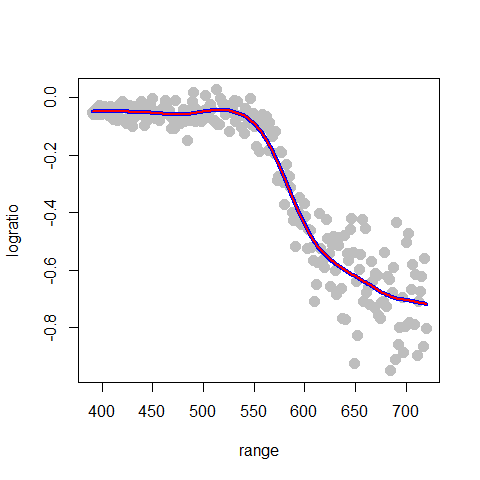
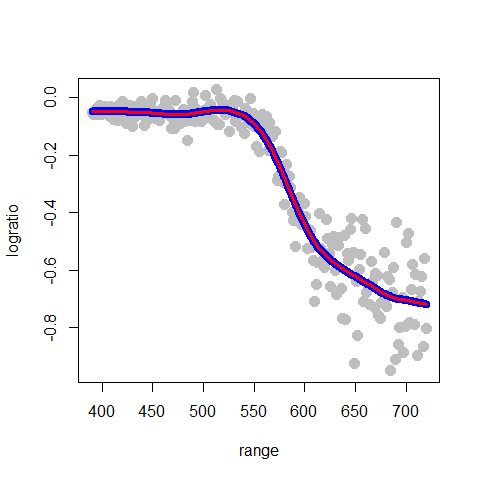
Lec 8

Changed region(s): [[0.1875, 0.2188, 0.5938, 0.375], [0.7188, 0.5625, 0.9062, 0.6562], [0.5938, 0.375, 0.7188, 0.5625]]

diff --git a/Lecture8/README.md b/Lecture8/README.md
@@ -1,7 +1,7 @@
 STAT406 - Lecture 8 notes
 ================
 Matias Salibian-Barrera
-2017-09-27
+2017-09-28
 
 Lecture slides
 --------------
@@ -40,7 +40,7 @@ It is easy to verify that if we model the regression function as a 4th degree po
 # Degree 4 polynomials
 pm <- lm(logratio ~ poly(range, 4), data=lidar)
 plot(logratio ~ range, data=lidar, pch=19, col='gray', cex=1.5)
-lines(predict(pm)[order(range)] ~ sort(range), data=lidar, lwd=4, col='blue')
+lines(predict(pm)[order(range)] ~ sort(range), data=lidar, lwd=6, col='blue')
 ```
 
 ![](README_files/figure-markdown_github-ascii_identifiers/poly4-1.png)
@@ -51,8 +51,8 @@ Note that this fit is reasonable, although there is probably room for improvemen
 # Degree 10 polynomials
 pm2 <- lm(logratio ~ poly(range, 10), data=lidar)
 plot(logratio ~ range, data=lidar, pch=19, col='gray', cex=1.5)
-lines(predict(pm)[order(range)] ~ sort(range), data=lidar, lwd=4, col='blue')
-lines(predict(pm2)[order(range)]~sort(range), data=lidar, lwd=4, col='red')
+lines(predict(pm)[order(range)] ~ sort(range), data=lidar, lwd=6, col='blue')
+lines(predict(pm2)[order(range)]~sort(range), data=lidar, lwd=6, col='red')
 ```
 
 ![](README_files/figure-markdown_github-ascii_identifiers/poly10-1.png)
@@ -64,7 +64,7 @@ A more stable basis: splines
 
 Part of the problem with polynomial bases is that they necessarily become more wiggly within the range of the data, and also quickly increase or decrease near the edge of the observations. A more stable but also remarkably flexible basis is given by spline functions, as discussed in class.
 
-We first here show how to build a naive linear spline basis with 5 knots (placed at the `(1:5)/6` quantiles (i.e. the 0.17, 0.33, 0.5, 0.67, 0.83 percentiles) of the observed values of the explanatory variable), and use it to estimate the regression function. Remember that a linear spline function with knot *w* is given by `f_w(x) = max( x - w, 0 )`. Given a fixed set of pre-selected knots *w\_1*, *w\_2*, ..., *w\_k*, we consider regreesion functions that are linear combinations of the corresponding k linear spline functions.
+We first here show how to build a naive linear spline basis with 5 knots (placed at the `(1:5)/6` quantiles (i.e. the 0.17, 0.33, 0.5, 0.67, 0.83 percentiles) of the observed values of the explanatory variable), and use it to estimate the regression function. Remember that a linear spline function with knot *w* is given by `f_w(x) = max( x - w, 0 )`. Given a fixed set of pre-selected knots *w\_1*, *w\_2*, ..., *w\_k*, we consider regression functions that are linear combinations of the corresponding k linear spline functions.
 
 Note that for higher-order splines (e.g. cubic splines discussed below), the naive spline basis used above is numerically very unstable, and usually works poorly in practice. I include here simply as an illustration of the methodology and to stress the point that these basis approaches are in fact nothing more than slightly more complex linear models.
 
@@ -107,7 +107,7 @@ library(splines)
 ppm2 <- lm(logratio ~ bs(range, degree=1, knots=kn), data=lidar)
 plot(logratio~range, data=lidar, pch=19, col='gray', cex=1.5)
 lines(predict(ppm)[order(range)]~sort(range), data=lidar, lwd=8, col='hotpink')
-lines(predict(ppm2)[order(range)]~sort(range), data=lidar, lwd=2, col='darkblue')
+lines(predict(ppm2)[order(range)]~sort(range), data=lidar, lwd=3, col='darkblue')
 ```
 
 ![](README_files/figure-markdown_github-ascii_identifiers/bsplines1-1.png)
@@ -123,7 +123,7 @@ Here we do not even try to build the spline basis by hand, and directly use the 
 ``` r
 plot(logratio~range, data=lidar, pch=19, col='gray', cex=1.5)
 ppmq <- lm(logratio ~ bs(range, degree=2, knots=kn), data=lidar)
-lines(predict(ppmq)[order(range)]~sort(range), data=lidar, lwd=4, col='steelblue')
+lines(predict(ppmq)[order(range)]~sort(range), data=lidar, lwd=6, col='steelblue')
 ```
 
 ![](README_files/figure-markdown_github-ascii_identifiers/bsplines2-1.png)
@@ -137,7 +137,7 @@ We first fit and plot a quadratic spline using the same 5 knots as before:
 # kn <- as.numeric( quantile(lidar$range, (1:k)/(k+1)) )
 plot(logratio~range, data=lidar, pch=19, col='gray', cex=1.5)
 ppmc <- lm(logratio ~ bs(range, degree=2, knots=kn), data=lidar)
-lines(predict(ppmc)[order(range)]~sort(range), data=lidar, lwd=4, col='gray30')
+lines(predict(ppmc)[order(range)]~sort(range), data=lidar, lwd=6, col='gray30')
 ```
 
 To compute the estimated standard error of the predicted regression curve on a grid of values of the explanatory variable `range`, we first build a grid of 200 equally spaced points within the observed scope of the variable `range`:
@@ -181,7 +181,7 @@ Increasing the degree of the cubic basis yields smoother fits (having higher ord
 # cubic splines
 plot(logratio~range, data=lidar, pch=19, col='gray', cex=1.5)
 ppmc <- lm(logratio ~ bs(range, degree=3, knots=kn), data=lidar)
-lines(predict(ppmc)[order(range)]~sort(range), data=lidar, lwd=4, col='tomato3')
+lines(predict(ppmc)[order(range)]~sort(range), data=lidar, lwd=6, col='tomato3')
 ```
 
 ![](README_files/figure-markdown_github-ascii_identifiers/bsplines3-1.png)
@@ -198,7 +198,7 @@ k <- 10
 kn <- as.numeric( quantile(lidar$range, (1:k)/(k+1)) )
 plot(logratio~range, data=lidar, pch=19, col='gray', cex=1.5)
 ppmc <- lm(logratio ~ bs(range, degree=2, knots=kn), data=lidar)
-lines(predict(ppmc)[order(range)]~sort(range), data=lidar, lwd=4, col='tomato3')
+lines(predict(ppmc)[order(range)]~sort(range), data=lidar, lwd=6, col='tomato3')
 ```
 
 ![](README_files/figure-markdown_github-ascii_identifiers/bsplines.10knots-1.png)
@@ -211,7 +211,7 @@ k <- 50
 kn <- as.numeric( quantile(lidar$range, (1:k)/(k+1)) )
 ppmc <- lm(logratio ~ bs(range, degree=2, knots=kn), data=lidar)
 plot(logratio~range, data=lidar, pch=19, col='gray', cex=1.5)
-lines(predict(ppmc)[order(range)]~sort(range), data=lidar, lwd=4, col='hotpink')
+lines(predict(ppmc)[order(range)]~sort(range), data=lidar, lwd=6, col='hotpink')
 ```
 
 ![](README_files/figure-markdown_github-ascii_identifiers/bsplines.50knots-1.png)
@@ -235,7 +235,7 @@ The function `smooth.spline` computes a cubic smoothing spline (natural cubic sp
 plot(logratio~range, data=lidar, pch=19, col='gray', cex=1.5)
 tmp <- smooth.spline(x=lidar$range, y=lidar$logratio, spar=.2, cv=FALSE,
                      all.knots=TRUE)
-lines(tmp$y~tmp$x, lwd=4, col='magenta')
+lines(tmp$y~tmp$x, lwd=6, col='magenta')
 ```
 
 ![](README_files/figure-markdown_github-ascii_identifiers/smoothing1-1.png)
@@ -246,7 +246,7 @@ Clearly not enough. We increase it to 0.5:
 plot(logratio~range, data=lidar, pch=19, col='gray', cex=1.5)
 tmp <- smooth.spline(x=lidar$range, y=lidar$logratio, spar=.5, cv=FALSE,
                      all.knots=TRUE)
-lines(tmp$y~tmp$x, lwd=4, col='red')
+lines(tmp$y~tmp$x, lwd=6, col='red')
 ```
 
 ![](README_files/figure-markdown_github-ascii_identifiers/smoothing1.5-1.png)
@@ -257,7 +257,7 @@ The larger the penalty parameter, the closer the fit gets to a linear function (
 plot(logratio~range, data=lidar, pch=19, col='gray', cex=1.5)
 tmp <- smooth.spline(x=lidar$range, y=lidar$logratio, spar=.8, cv=FALSE,
                      all.knots=TRUE)
-lines(tmp$y~tmp$x, lwd=4, col='blue')
+lines(tmp$y~tmp$x, lwd=6, col='blue')
 ```
 
 ![](README_files/figure-markdown_github-ascii_identifiers/smoothing2-1.png)
@@ -268,7 +268,7 @@ lines(tmp$y~tmp$x, lwd=4, col='blue')
 plot(logratio~range, data=lidar, pch=19, col='gray', cex=1.5)
 tmp <- smooth.spline(x=lidar$range, y=lidar$logratio, spar=2, cv=FALSE,
                      all.knots=TRUE)
-lines(tmp$y~tmp$x, lwd=4, col='tomato3')
+lines(tmp$y~tmp$x, lwd=6, col='tomato3')
 ```
 
 ![](README_files/figure-markdown_github-ascii_identifiers/smoothing3-1.png)
@@ -282,7 +282,7 @@ tmp.cv <- smooth.spline(x=lidar$range, y=lidar$logratio, cv=TRUE,
                         all.knots=TRUE)
 # tmp.cv$spar = 0.974
 plot(logratio~range, data=lidar, pch=19, col='gray', cex=1.5)
-lines(tmp.cv$y~tmp.cv$x, lwd=2, col='blue')
+lines(tmp.cv$y~tmp.cv$x, lwd=6, col='blue')
 ```
 
 ![](README_files/figure-markdown_github-ascii_identifiers/smoothing.cv1-1.png)
@@ -291,10 +291,10 @@ Which is the same as doing:
 
 ``` r
 plot(logratio~range, data=lidar, pch=19, col='gray', cex=1.5)
-lines(tmp.cv$y~tmp.cv$x, lwd=4, col='blue')
+lines(tmp.cv$y~tmp.cv$x, lwd=8, col='blue')
 tmp <- smooth.spline(x=lidar$range, y=lidar$logratio, spar=tmp.cv$spar, cv=FALSE,
                      all.knots=TRUE)
-lines(tmp$y~tmp$x, lwd=2, col='red')
+lines(tmp$y~tmp$x, lwd=3, col='red')
 ```
 
 ![](README_files/figure-markdown_github-ascii_identifiers/smoothing.cv2-1.png)
